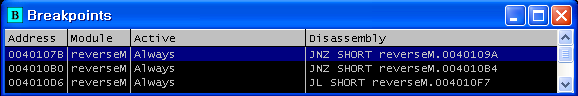
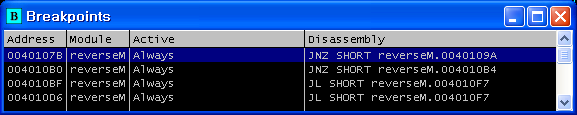
modify md file, add img files

diff --git a/Reversing/Lenas_Reversing/01_Lena.md b/Reversing/Lenas_Reversing/01_Lena.md
@@ -117,7 +117,7 @@
 
 #### 6)  디버거를 다시 시작하여 ReadFile 함수 호출 어셈블리코드까지 실행
 
-- 브레이크포인트 설정
+- 브레이크 포인트 설정
 
 <img src="img/01_breakpoint.png">
 
@@ -156,7 +156,7 @@
 
 <img src="img/01_loop.png">
 
-- 코드 실행 범위 아래 어셈블리 코드에 브레이크포인트를 설정 하고 브레이크 포인트까지 코드 진행
+- 코드 실행 범위 아래 어셈블리 코드에 브레이크 포인트를 설정 하고 브레이크 포인트까지 코드 진행
 
 - CMP ESI,0x8: ESI 레지스터와 0x8과 비교
 
@@ -194,6 +194,7 @@
 
 ### 4. 3.9)의 메시지박스가 출력되도록 어셈블리 코드를 패치
 
+- 여러가지 방법으로 코드를 패치할 수 있으나, 최대한 분석 한 것을 따라 코드를 패치함
 - 플래그를 임의 설정하지 않고 원하는 결과가 나오도록 코드를 패치 하기 위해 OllyDbg 다시 시작(Ctrl+F9)
 - 위의 분석 과정을 통해 브레이크포인트 설정되어 있음
 
@@ -201,5 +202,74 @@
 
 
 
-#### 1) 첫 번째 브레이크포인트까지 코드 실행(F9)
+#### 1) 첫번째 브레이크 포인트까지 코드 실행, 패치
+
+- 첫 번째 브레이크 포인트까지 이동 후 JNZ를  JMP로 코드패치하여 reverseM.0040109A로 분기
+
+<img src="img/01_1st_patch.png">
+
+- reverseM.0040109A로 분기
+
+
+
+#### 2) 두번째 브레이크 포인트까지 코드 실행, 패치
+
+- reverseM.0040109A로 분기한 후 F8을 눌러 코드를 실행하거나 F9를 눌러 미리 설정한 브레이크 포인트까지 실행해도 됨
+- JNZ를  JMP로 코드패치하여 reverseM.004010B4로 분기
+
+<img src="img/01_2nd_patch.png">
+
+
+
+#### 3) 세번째 브레이크 포인트까지 코드 실행, 패치
+
+- 브레이크포인트까지 실행하여 JL SHORT reverseM.004010F7을 NOP로 코드패치
+  - NOP: No Operation, 아무것도 하지 않음
+
+<img src="img/01_3rd_patch.png">
+
+
+
+#### 4) 네번째 브레이크 포인트까지 코드 실행, 패치
+
+- 3)에서와 마찬가지로 JL SHORT reverseM.004010F7를 NOP로 코드 패치
+- F8을 눌러 다음 코드 실행 전까지 진행
+
+<img src="img/01_4th_patch.png">
+
+- 3.9)에서 확인했듯이 JMP reverseM.00401205 코드를 실행하여 reverseM.00401205로 분기하는 경우
+
+  원하는 메시지박스가 출력됨
+
+
+
+### 5. 패치한 코드를 반영하여 바이너리 저장
+
+#### 1) 코드패치 리스트
+
+- 총 4군데의 코드 패치를 수행함
+
+<img src="img/01_patches.png">
+
+
+
+#### 2)  코드패치한 부분 저장
+
+- 변경한 부분을 마우스 드래그하여 선택 후 마우스 우클릭하여 컨텍스트메뉴에서 Copy to excitable - Selection 메뉴 선택
+
+<img src="img/01_copy_selection.png">
+
+- 새로 뜬 창에서 마우스 우클릭하여 컨텍스트메뉴에서 save file 선택
+
+<img src="img/01_savefile1.png">
+
+- 파일명을 "reverseMe_Crack.exe"로 저장
+
+<img src="img/01_save_file_as.png">
+
+- reverseMe_Crack.exe를 실행하면 "You really did it! Congrats !!!" 메시지박스가 출력
+
+  <img src="img/01_crack_file.png">
+
+- 성공적으로 코드패치를 함
 
